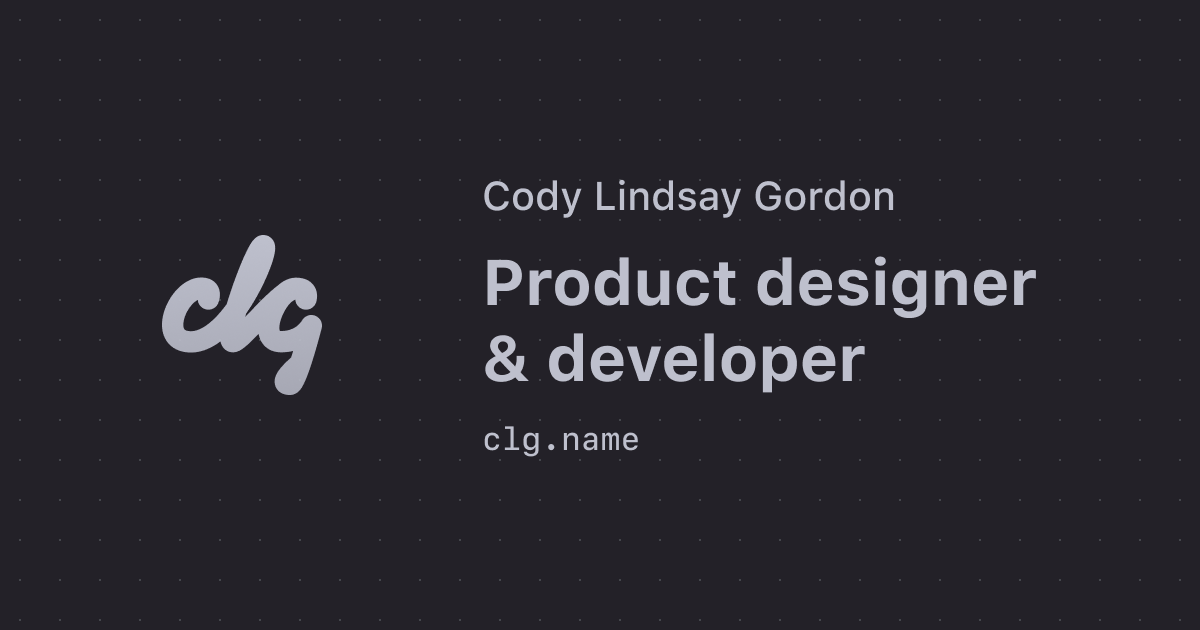
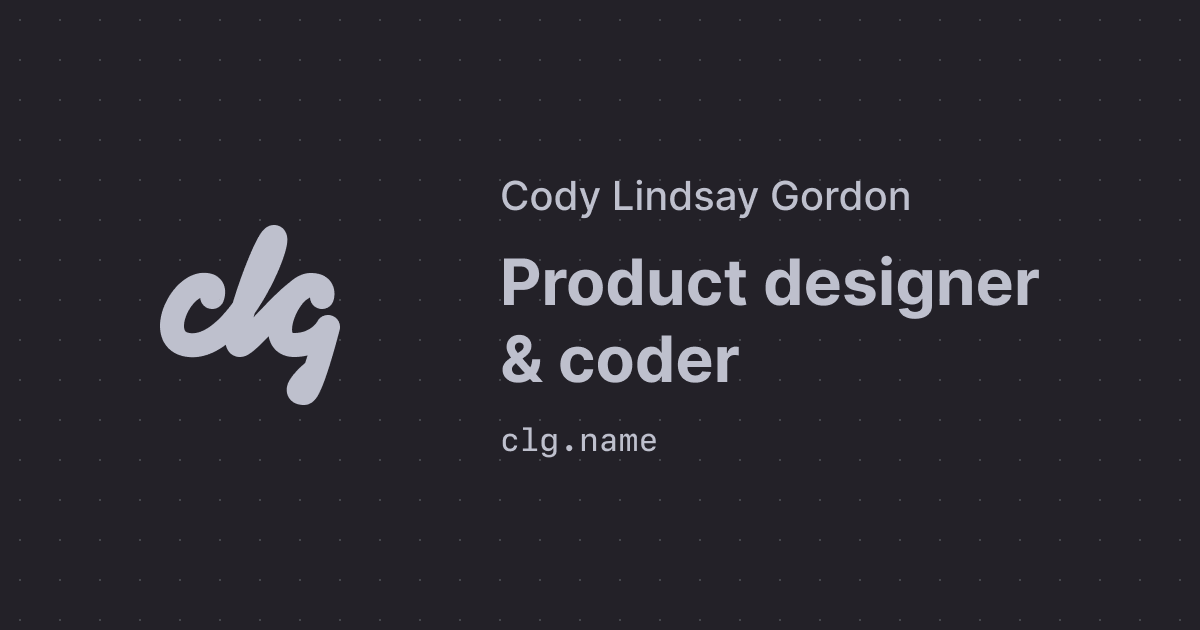
Copy updates

diff --git a/index.html b/index.html
@@ -1,16 +1,16 @@
 <!DOCTYPE html>
 <html lang="en">
   <head>
-    <title>Product designer &amp; developer &rarr; Cody Lindsay Gordon</title>
-    <meta name="description" content="Cody Lindsay Gordon is an Australian product designer &amp; developer with a degree in Architectural design and an affinity for heavy metal.">
+    <title>Product designer &amp; coder &rarr; Cody Lindsay Gordon</title>
+    <meta name="description" content="Cody Lindsay Gordon is a product designer &amp; coder with a degree in Architectural design and an affinity for heavy metal.">
     <meta name="theme-color" content="#26282e">
     <meta charset="utf-8">
     <meta name="viewport" content="initial-scale=1">
     <meta name="author" content="Cody Lindsay Gordon">
     <meta name="google-site-verification" content="ZkjeR5dDgGZ5iIrCxvCjqgPrhHp6dco-Jck7IWutYZo">
-    <meta property="og:title" content="Product designer &amp; developer">
+    <meta property="og:title" content="Product designer &amp; coder">
     <meta property="og:site_name" content="Cody Lindsay Gordon">
-    <meta property="og:description" content="Cody Lindsay Gordon is an Australian product designer &amp; developer with a degree in Architectural design and an affinity for heavy metal.">
+    <meta property="og:description" content="Cody Lindsay Gordon is a product designer &amp; coder with a degree in Architectural design and an affinity for heavy metal.">
     <meta property="og:type" content="website">
     <meta property="og:url" content="http://clg.name/">
     <meta property="og:image" content="http://clg.name/card-clg.png">
@@ -35,7 +35,7 @@
             <path fill="none" stroke="#000000" stroke-width="8px" stroke-linecap="round" stroke-linejoin="round" stroke-miterlimit="10" d="M17.4,24c0,0,1.9-4.6-3.6-4C5.7,21.4-1.3,38.7,9.6,40C25.8,42,41.3,4,38,4c-2.7,0-15.6,36-11.4,36c3.1,0,17.9-20,23.7-20c5,0,3.7,4,3.7,4s1.3-4-3.7-4c-7.4,0-15.7,20-5.6,20c8.2,0,11.3-6,11.3-6s-5.6,22-8,22c-5.3,0,3-7,3-7" class="script"></path>
           </svg></a></nav>
       <div>
-        <p>Cody Lindsay Gordon is an Australian <strong>product designer &amp; developer</strong> with a degree in Architectural design and an affinity for <span data-tooltip="🤘">heavy metal</span>. Currently working as User Experience Lead for <a href="https://www.rexsoftware.com">Rex</a>.</p>
+        <p>Cody Lindsay Gordon is a product designer &amp; coder with a degree in Architectural design and an affinity for <span data-tooltip="🤘">heavy metal</span>. Currently working as User Experience Lead for <a href="https://www.rexsoftware.com">Rex</a>.</p>
         <p class="grey-dark-text my-links"><a href="https://medium.com/@clg" data-tooltip="Posts about design/tech" class="tooltip-align-left">Blog</a><span class="rarr"></span></p>
         <p class="grey-dark-text my-links"><a href="/photo" data-tooltip="Hobby photography" class="tooltip-align-left">Photos</a><span class="rarr"></span></p>
         <p class="grey-dark-text my-links"><a href="mailto:clg@clg.name">clg@clg.name</a></p>
@@ -52,9 +52,7 @@
       <div class="content-panel divvy-panel">
         <div class="content-panel-header">
           <h1><a id="divvy" href="https://divvy.lol">Divvy</a></h1>
-          <p>Divvy is a <strong>web app </strong>designed to easily split bills between friends.
-            Add the expenses for each person and Divvy will find the most efficient sequence of repayments.
-          </p>
+          <p>Divvy is a web app designed to easily split bills between friends. Add the expenses for each person and Divvy will find the most efficient sequence of repayments.</p>
           <hr class="black-line"><a href="https://divvy.lol" class="button-white">divvy.lol<span class="rarr"></span></a>
         </div>
         <figure><img srcset="/img/divvy.png 1x, /img/divvy@2x.png 2x" src="/img/divvy@2x.png" alt="Divvy web app">
@@ -69,7 +67,7 @@
       <div class="content-panel dede-panel">
         <div class="content-panel-header">
           <h1><a id="dede" href="/dede">Double exposure depth experiment</a></h1>
-          <p>A <strong>web experiment </strong>combining CSS and Javascript with photography; exploring tangible methods of interacting with digital photos.</p>
+          <p>A  web experiment combining CSS and Javascript with photography; exploring tangible methods of interacting with digital photos.</p>
           <hr><a href="/dede" class="button-black">View experiment<span class="rarr"></span></a>
         </div>
         <figure></figure>
@@ -77,7 +75,7 @@
       <div class="content-panel content-panel-small post-ux-breakdown-panel">
         <div class="content-panel-header"><span class="tag">From the blog</span>
           <h1><a id="post-ux-breakdown" href="https://medium.com/@clg/ux-design-breakdown-household-bill-management-6ac82c4a5ebf">UX design breakdown: Household bill management</a></h1>
-          <p>This post outlines my <strong>design process</strong> during a 4-hour UX design exercise.</p>
+          <p>This post outlines my design process during a 4-hour UX design exercise.</p>
           <div class="image-gallery"><a href="https://medium.com/@clg/ux-design-breakdown-household-bill-management-6ac82c4a5ebf"><img srcset="/img/post-ux-breakdown.jpg 1x, /img/post-ux-breakdown@2x.jpg 2x" src="/img/post-ux-breakdown@2x.jpg" alt="UX breakdown"></a></div>
         </div>
       </div>
@@ -119,11 +117,8 @@
       <div class="content-panel ios86-panel">
         <div class="content-panel-header">
           <h1><a id="ios86" href="/ios86">iOS'86</a></h1>
-          <p>iOS'86 was a personal project that developed into one of the most expansive <strong>iPhone themes</strong> of the time. Based on the concept designed by <a href="http://work.repponen.com/">Anton Repponen</a>, iOS'86 is a fully functional Winterboard theme for iPhone.</p>
-          <p>
-            Including thousands of hand-pixeled monochrome graphics along with a port of the original Chicago font; iOS'86 takes your device back to another era.
-            Available on iOS 4, 5, and 6.
-          </p>
+          <p>iOS'86 was a personal project that developed into one of the most expansive iPhone themes of the time. Based on the concept designed by <a href="http://work.repponen.com/">Anton Repponen</a>, iOS'86 is a fully functional Winterboard theme for iPhone.</p>
+          <p>Including thousands of hand-pixeled monochrome graphics along with a port of the original Chicago font; iOS'86 takes your device back to another era. Available on iOS 4, 5, and 6.</p>
           <p class="grey-dark-text">Mid 2012 &ndash; late 2013</p>
           <hr><a href="/ios86" class="button-black">View iOS'86<span class="rarr"></span></a>
         </div>
@@ -146,9 +141,7 @@
       <div class="content-panel sarif-panel">
         <div class="content-panel-header">
           <h1 class="white-text"><a id="sarif" href="/sarif">Sarif</a></h1>
-          <p class="white-text">Sarif is an <strong>iPhone theme </strong>built to accomodate user customisation with a library of UI styles, widgets, icons, and more - all available from within Winterboard. Sarif also supports a huge range of popular third party apps and tweaks, ensuring a complete revamp of your device across the board.
-            Available on iOS 4, 5, and 6. 
-          </p>
+          <p class="white-text">Sarif is an iPhone theme built to accomodate user customisation with a library of UI styles, widgets, icons, and more &mdash; all available from within Winterboard. Sarif also supports a huge range of popular third party apps and tweaks, ensuring a complete revamp of your device across the board. Available on iOS 4, 5, and 6. </p>
           <p class="white-text translucent">Early 2012 &ndash; late 2013</p>
           <hr><a href="/sarif" class="button">View Sarif<span class="rarr"></span></a>
         </div>

diff --git a/404.html b/404.html
@@ -1,16 +1,16 @@
 <!DOCTYPE html>
 <html lang="en">
   <head>
-    <title>Product designer &amp; developer &rarr; Cody Lindsay Gordon</title>
-    <meta name="description" content="Cody Lindsay Gordon is an Australian product designer &amp; developer with a degree in Architectural design and an affinity for heavy metal.">
+    <title>Product designer &amp; coder &rarr; Cody Lindsay Gordon</title>
+    <meta name="description" content="Cody Lindsay Gordon is a product designer &amp; coder with a degree in Architectural design and an affinity for heavy metal.">
     <meta name="theme-color" content="#26282e">
     <meta charset="utf-8">
     <meta name="viewport" content="initial-scale=1">
     <meta name="author" content="Cody Lindsay Gordon">
     <meta name="google-site-verification" content="ZkjeR5dDgGZ5iIrCxvCjqgPrhHp6dco-Jck7IWutYZo">
-    <meta property="og:title" content="Product designer &amp; developer">
+    <meta property="og:title" content="Product designer &amp; coder">
     <meta property="og:site_name" content="Cody Lindsay Gordon">
-    <meta property="og:description" content="Cody Lindsay Gordon is an Australian product designer &amp; developer with a degree in Architectural design and an affinity for heavy metal.">
+    <meta property="og:description" content="Cody Lindsay Gordon is a product designer &amp; coder with a degree in Architectural design and an affinity for heavy metal.">
     <meta property="og:type" content="website">
     <meta property="og:url" content="http://clg.name/">
     <meta property="og:image" content="http://clg.name/card-clg.png">

diff --git a/ios86/index.html b/ios86/index.html
@@ -40,11 +40,8 @@
       <div class="content-panel ios86-panel">
         <div class="content-panel-header">
           <h1><a id="ios86" href="/ios86">iOS'86</a></h1>
-          <p>iOS'86 was a personal project that developed into one of the most expansive <strong>iPhone themes</strong> of the time. Based on the concept designed by <a href="http://work.repponen.com/">Anton Repponen</a>, iOS'86 is a fully functional Winterboard theme for iPhone.</p>
-          <p>
-            Including thousands of hand-pixeled monochrome graphics along with a port of the original Chicago font; iOS'86 takes your device back to another era.
-            Available on iOS 4, 5, and 6.
-          </p>
+          <p>iOS'86 was a personal project that developed into one of the most expansive iPhone themes of the time. Based on the concept designed by <a href="http://work.repponen.com/">Anton Repponen</a>, iOS'86 is a fully functional Winterboard theme for iPhone.</p>
+          <p>Including thousands of hand-pixeled monochrome graphics along with a port of the original Chicago font; iOS'86 takes your device back to another era. Available on iOS 4, 5, and 6.</p>
           <p class="grey-dark-text">Mid 2012 &ndash; late 2013</p>
           <hr>
           <p><a href="cydia://package/com.modmyi.ios86" data-tooltip="Tap this on your jailbroken iPhone" class="button-black button-full">$2 from Cydia<span class="rarr"></span></a></p>

diff --git a/sarif/index.html b/sarif/index.html
@@ -40,9 +40,7 @@
       <div class="content-panel sarif-panel">
         <div class="content-panel-header">
           <h1 class="white-text"><a id="sarif" href="/sarif">Sarif</a></h1>
-          <p class="white-text">Sarif is an <strong>iPhone theme </strong>built to accomodate user customisation with a library of UI styles, widgets, icons, and more - all available from within Winterboard. Sarif also supports a huge range of popular third party apps and tweaks, ensuring a complete revamp of your device across the board.
-            Available on iOS 4, 5, and 6. 
-          </p>
+          <p class="white-text">Sarif is an iPhone theme built to accomodate user customisation with a library of UI styles, widgets, icons, and more &mdash; all available from within Winterboard. Sarif also supports a huge range of popular third party apps and tweaks, ensuring a complete revamp of your device across the board. Available on iOS 4, 5, and 6. </p>
           <p class="white-text translucent">Early 2012 &ndash; late 2013</p>
           <hr>
           <p><a href="cydia://package/com.modmyi.sarifbasic" data-tooltip="Tap this on your jailbroken iPhone" class="button-full">Basic - free from Cydia<span class="rarr"></span></a></p>
